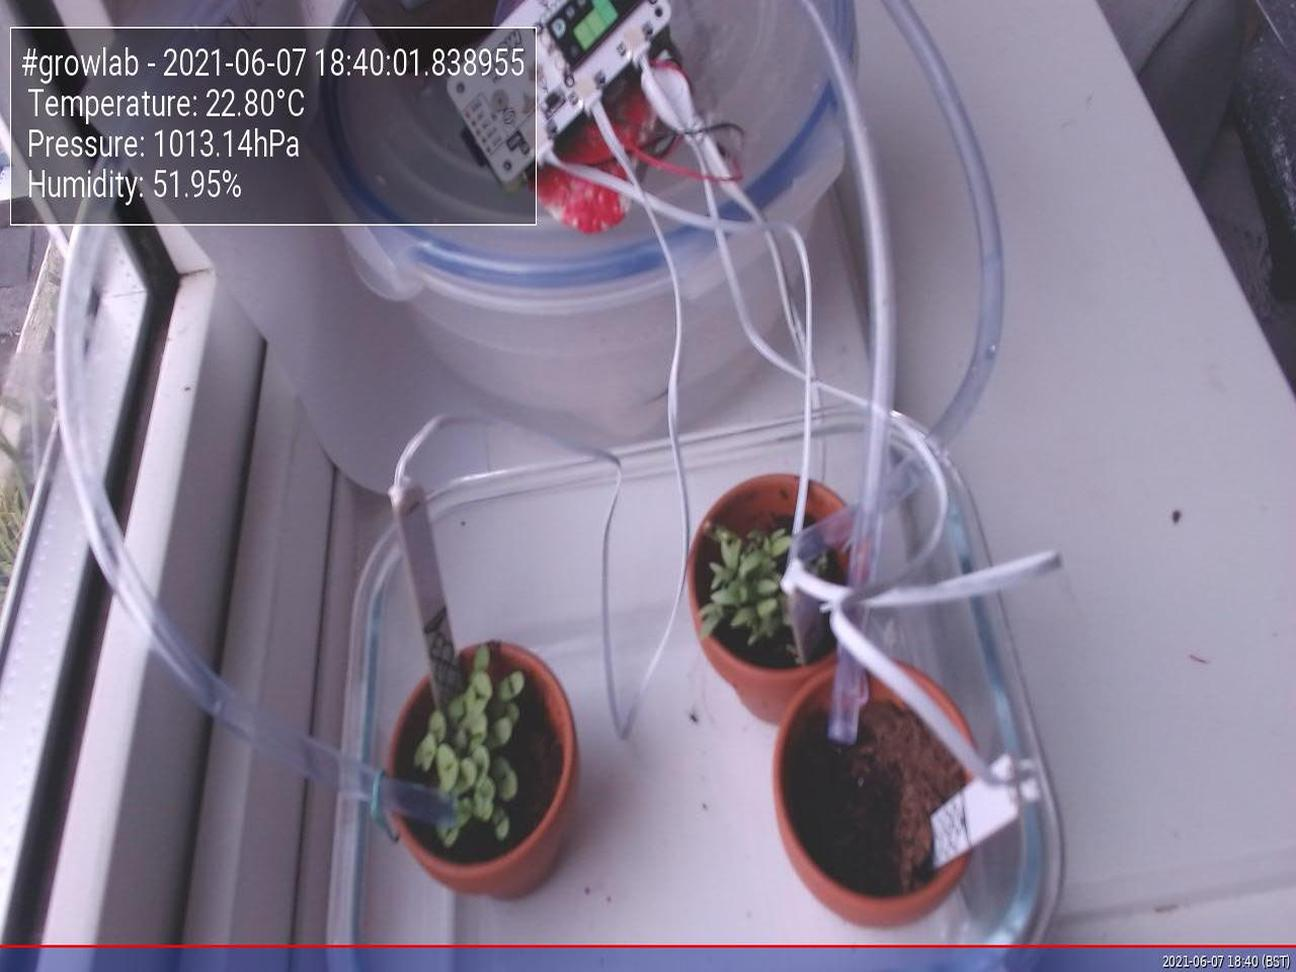
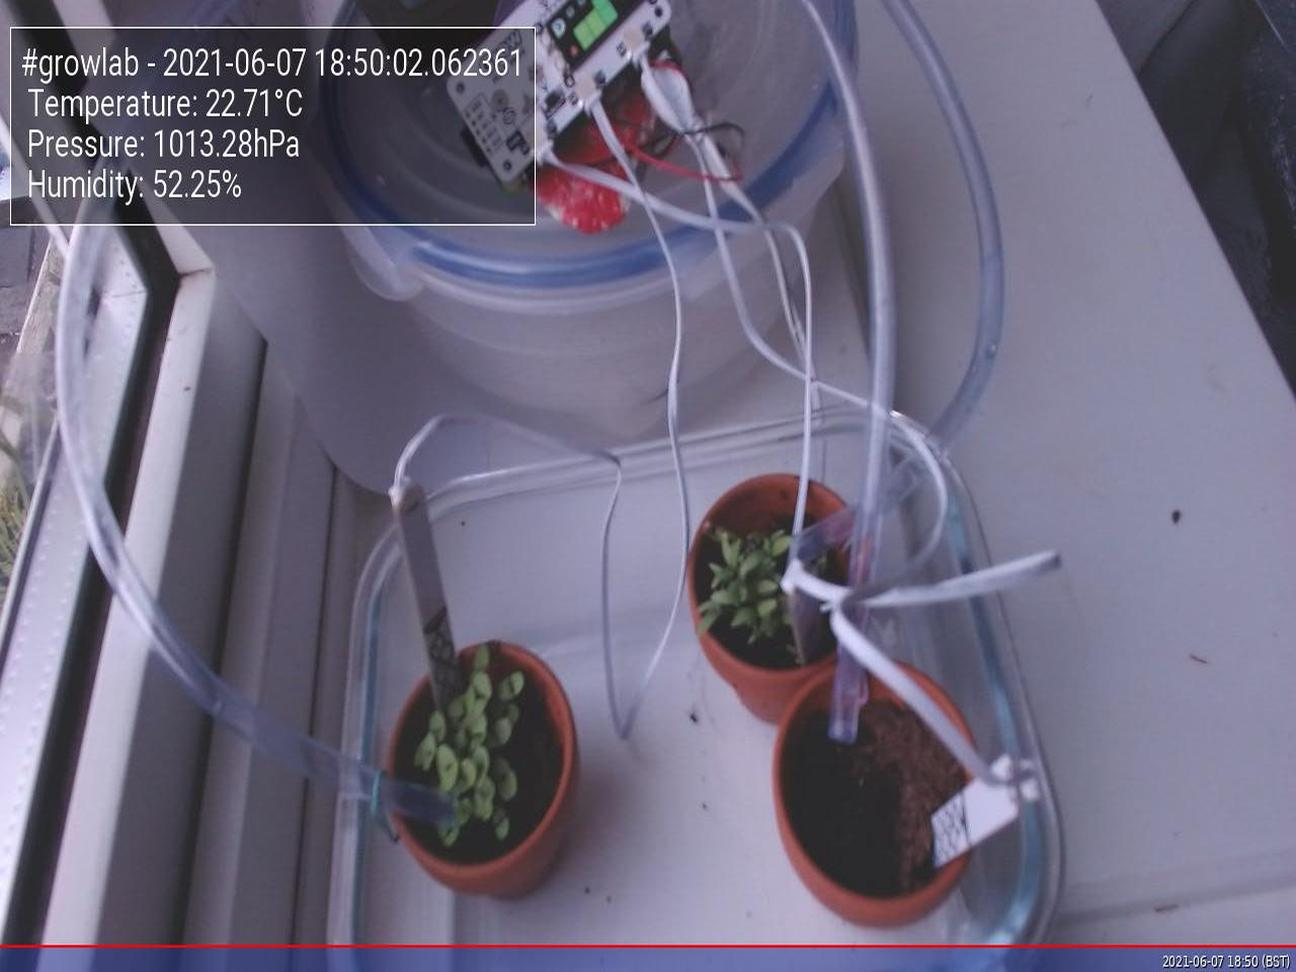
Update images at Mon  7 Jun 18:50:05 BST 2021

diff --git a/app/docs/index.html b/app/docs/index.html
@@ -47,19 +47,19 @@
                         <tbody>
                             <tr>
                                 <td>Time</td>
-                                <td>2021-06-07 18:40:01.838955</td>
+                                <td>2021-06-07 18:50:02.062361</td>
                             </tr>
                             <tr>
                                 <td>Temperature</td>
-                                <td>22.80°C</td>
+                                <td>22.71°C</td>
                             </tr>
                             <tr>
                                 <td>Humidity</td>
-                                <td>51.95%</td>
+                                <td>52.25%</td>
                             </tr>
                             <tr>
                                 <td>Pressure</td>
-                                <td>1013.14hPa</td>
+                                <td>1013.28hPa</td>
                             </tr>
                         </tbody>
                     </table>
@@ -67,7 +67,7 @@
 
                 <h5>Latest image</h5>
                 <div style="width: 85%;">
-                            <img class="figure-img img-fluid rounded" src="./preview.jpg?uid=1623087605.5643744">
+                            <img class="figure-img img-fluid rounded" src="./preview.jpg?uid=1623088205.822804">
                 </div>
             </div>
         </div>
